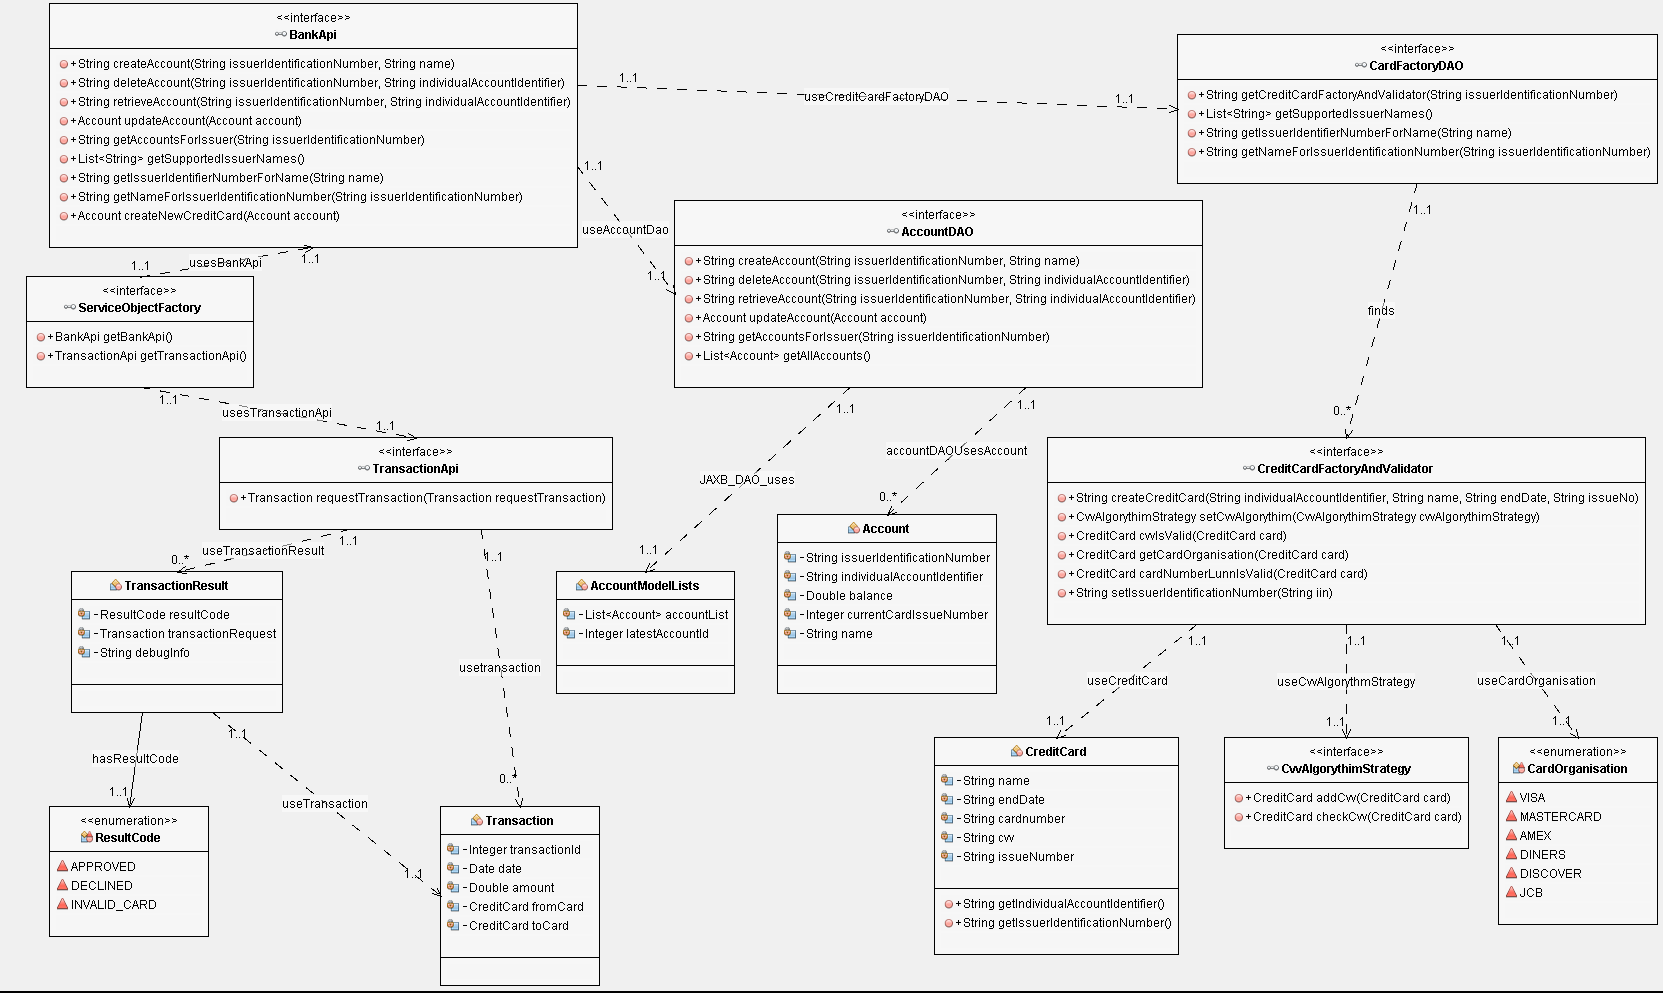
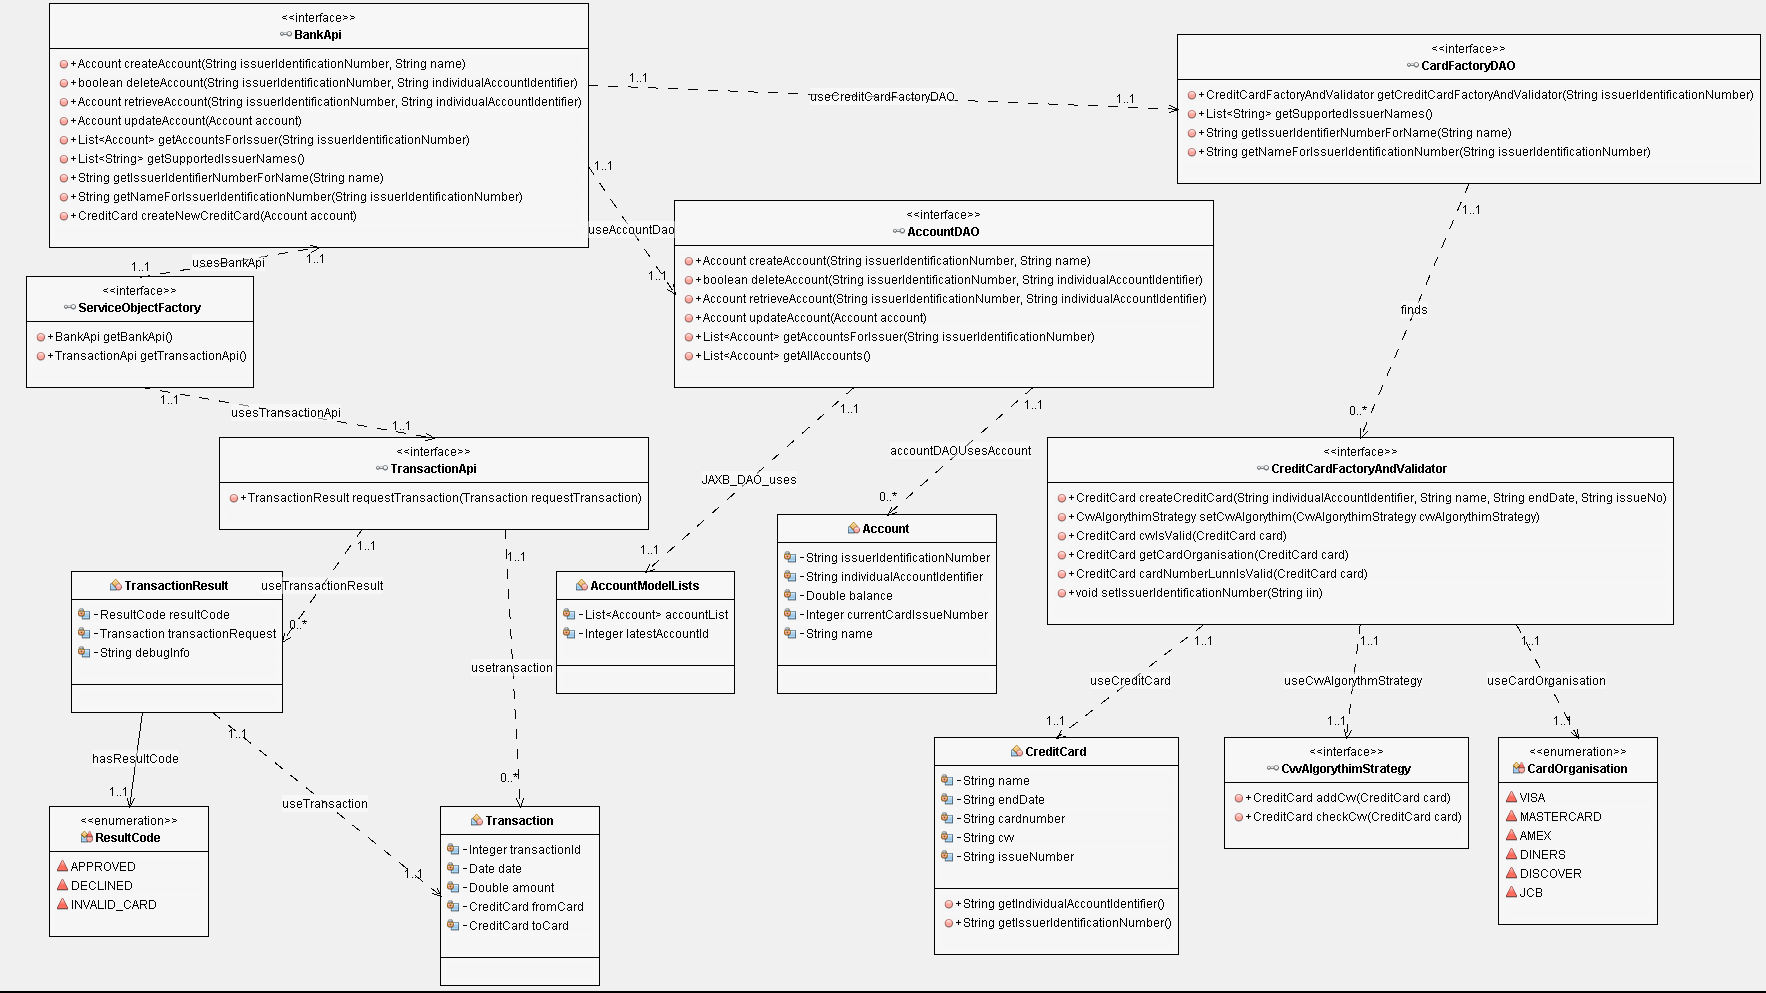
Week 7

diff --git a/myPracticeCourseWork/week7/bankcard-parent/card-validator-dao/src/main/java/solent/ac/uk/ood/examples/cardvalidator/impl/CardFactoryDAOImpl.java b/myPracticeCourseWork/week7/bankcard-parent/card-validator-dao/src/main/java/solent/ac/uk/ood/examples/cardvalidator/impl/CardFactoryDAOImpl.java
@@ -23,34 +23,34 @@ public class CardFactoryDAOImpl implements CardFactoryDAO {
     
     public CardFactoryDAOImpl(){
         
-        //TODO you need to use the actual algorythims you created - one for each bank
+        // you need to use the actual algorythims you created - one for each bank
         String iin = SupportedCardIssuerIdentificationNumbers.VISA_NAT_WEST;
         CreditCardFactoryAndValidator ccfv = new CreditCardFactoryAndValidatorImpl();
-        ccfv.setCvvAlgorythim(new TrivialCvvAlgorythimStrategy());
+        ccfv.setCvvAlgorythim(new TrivialCvvAlgorythimStrategy().setAlgorythim(iin));
         ccfv.setIssuerIdentificationNumber(iin);
         cardFactoryMap.put(iin, ccfv);
         
         iin=SupportedCardIssuerIdentificationNumbers.VISA_BANK_OF_IRELAND_UK;
         ccfv = new CreditCardFactoryAndValidatorImpl();
-        ccfv.setCvvAlgorythim(new TrivialCvvAlgorythimStrategy());
+        ccfv.setCvvAlgorythim(new TrivialCvvAlgorythimStrategy().setAlgorythim(iin));
         ccfv.setIssuerIdentificationNumber(iin);
         cardFactoryMap.put(iin, ccfv);
         
         iin = SupportedCardIssuerIdentificationNumbers.MASTERCARD_TSB_BANK;
         ccfv = new CreditCardFactoryAndValidatorImpl();
-        ccfv.setCvvAlgorythim(new TrivialCvvAlgorythimStrategy());
+        ccfv.setCvvAlgorythim(new TrivialCvvAlgorythimStrategy().setAlgorythim(iin));
         ccfv.setIssuerIdentificationNumber(iin);
         cardFactoryMap.put(iin, ccfv);
         
         iin = SupportedCardIssuerIdentificationNumbers.MASTERCARD_LLOYDS_BANK_PLC;
         ccfv = new CreditCardFactoryAndValidatorImpl();
-        ccfv.setCvvAlgorythim(new TrivialCvvAlgorythimStrategy());
+        ccfv.setCvvAlgorythim(new TrivialCvvAlgorythimStrategy().setAlgorythim(iin));
         ccfv.setIssuerIdentificationNumber(iin);
         cardFactoryMap.put(iin, ccfv);
         
         iin = SupportedCardIssuerIdentificationNumbers.AMERICAN_EXPRESS_LLOYDS_BANK_PLC;
         ccfv = new CreditCardFactoryAndValidatorImpl();
-        ccfv.setCvvAlgorythim(new TrivialCvvAlgorythimStrategy());
+        ccfv.setCvvAlgorythim(new TrivialCvvAlgorythimStrategy().setAlgorythim(iin));
         ccfv.setIssuerIdentificationNumber(iin);
         cardFactoryMap.put(iin, ccfv);
         
@@ -72,11 +72,6 @@ public class CardFactoryDAOImpl implements CardFactoryDAO {
     @Override
     public String getIssuerIdentifierNumberForName(String name) {
         return SupportedCardIssuerIdentificationNumbers.ISSUER_IDENTIFICATION_MAP.get(name);
-    }
-
-    @Override
-    public String getNameForIssuerIdentificationNumber(String issuerIdentificationNumber) {
-        return SupportedCardIssuerIdentificationNumbers.ISSUER_NAME_MAP.get(issuerIdentificationNumber);
     }
     
 }

diff --git a/myPracticeCourseWork/week7/bankcard-parent/card-validator-dao/src/test/java/solent/ac/uk/ood/examples/cardvalidator/cvv/impl/test/CreateAndVerifyNewCreditCardTest.java b/myPracticeCourseWork/week7/bankcard-parent/card-validator-dao/src/test/java/solent/ac/uk/ood/examples/cardvalidator/cvv/impl/test/CreateAndVerifyNewCreditCardTest.java
@@ -22,32 +22,33 @@ public class CreateAndVerifyNewCreditCardTest {
     public void createAndVerifyCardTest() {
 
         CardFactoryDAO cfdao = new CardFactoryDAOImpl();
+        
+        for(int i = 0; i < 5; i++){
+            String issuerName = cfdao.getSupportedIssuerNames().get(i); // get first issuerName
+            System.out.println("test using issuer:" + issuerName);
 
-        String issuerName = cfdao.getSupportedIssuerNames().get(0); // get first issuerName
-        System.out.println("test using issuer:" + issuerName);
+            String accountNumber = "123456789"; // 9 digits + iin + 1 = 16
 
-        String accountNumber = "123456789"; // 9 digits + iin + 1 = 16
+            String issuerIdentifierNumber = cfdao.getIssuerIdentifierNumberForName(issuerName);
 
-        String issuerIdentifierNumber = cfdao.getIssuerIdentifierNumberForName(issuerName);
+            CreditCardFactoryAndValidator ccFactoryandValidator = cfdao.getCreditCardFactoryAndValidator(issuerIdentifierNumber);
+            String name = "Fred Blogs";
+            String endDate = "0119";
+            String issueNumber = "01";
+            CreditCard newCreditcard = ccFactoryandValidator.createCreditCard(accountNumber, name, endDate, issueNumber);
 
-        CreditCardFactoryAndValidator ccFactoryandValidator = cfdao.getCreditCardFactoryAndValidator(issuerIdentifierNumber);
-        String name = "Fred Blogs";
-        String endDate = "0119";
-        String issueNumber = "01";
-        CreditCard newCreditcard = ccFactoryandValidator.createCreditCard(accountNumber, name, endDate, issueNumber);
+            System.out.println(" new creditcard created:" + newCreditcard);
 
-        System.out.println(" new creditcard created:" + newCreditcard);
+            // decode and verify creditcard
+            String receivedIin = newCreditcard.getIssuerIdentificationNumber();
 
-        // decode and verify creditcard
-        String receivedIin = newCreditcard.getIssuerIdentificationNumber();
+            CreditCardFactoryAndValidator checkValidator = cfdao.getCreditCardFactoryAndValidator(receivedIin);
 
-        CreditCardFactoryAndValidator checkValidator = cfdao.getCreditCardFactoryAndValidator(receivedIin);
+            boolean lunnIsValid = checkValidator.cardNumberLunnIsValid(newCreditcard);
+            boolean cvvIsValid = checkValidator.cvvIsValid(newCreditcard);
 
-        boolean lunnIsValid = checkValidator.cardNumberLunnIsValid(newCreditcard);
-        boolean cvvIsValid = checkValidator.cvvIsValid(newCreditcard);
-
-        assertTrue(lunnIsValid);
-        assertTrue(cvvIsValid);
-
+            assertTrue(lunnIsValid);
+            assertTrue(cvvIsValid);
+        }
     }
 }

diff --git a/myPracticeCourseWork/week7/bankcard-parent/card-validator-dao/src/main/java/solent/ac/uk/ood/examples/cardvalidator/impl/CreditCardFactoryAndValidatorImpl.java b/myPracticeCourseWork/week7/bankcard-parent/card-validator-dao/src/main/java/solent/ac/uk/ood/examples/cardvalidator/impl/CreditCardFactoryAndValidatorImpl.java
@@ -6,8 +6,6 @@
 package solent.ac.uk.ood.examples.cardvalidator.impl;
 
 import solent.ac.uk.ood.examples.cardcheck.CalculateLunnDigit;
-import solent.ac.uk.ood.examples.cardcheck.CardCompany;
-import solent.ac.uk.ood.examples.cardcheck.CardValidationResult;
 import solent.ac.uk.ood.examples.cardcheck.RegexCardValidator;
 import solent.ac.uk.ood.examples.cardvalidator.model.CardOrganisation;
 import solent.ac.uk.ood.examples.cardvalidator.model.CreditCard;
@@ -67,40 +65,25 @@ public class CreditCardFactoryAndValidatorImpl implements CreditCardFactoryAndVa
 
     @Override
     public CardOrganisation getCardOrganisation(CreditCard card) {
-        //TODO THIS IS ANSWER TO EXERCISE
-        CardValidationResult result = RegexCardValidator.isValid(card.getCardnumber());
-        CardCompany type = result.getCardType();
-        switch (type) {
-            case AMEX:
-                // Statements
-                break; // optional
-            case DINERS:
-                return CardOrganisation.DINERS;
-
-            case DISCOVER:
-                return CardOrganisation.DISCOVER;
-
-            case JCB:
-                return CardOrganisation.JCB;
-
-            case MASTERCARD:
-                return CardOrganisation.MASTERCARD;
-
-            case VISA:
-                return CardOrganisation.VISA;
-
-            default:
-                throw new IllegalArgumentException("unknown card type:" + type);
+        CardOrganisation[] cc = CardOrganisation.values();
+        for(int count = 0; count <= cc.length; count ++){
+            if(cc[count].toString().equals(RegexCardValidator.isValid(card.getCardnumber()).getCardType().getIssuerName())){
+                return cc[count];
+            }
         }
-
-        throw new IllegalArgumentException("unknown card type:" + type);
+        return null;
     }
 
     @Override
     public boolean cardNumberLunnIsValid(CreditCard card) {
-        //TODO THIS IS ANSWER TO EXERCISE
-        CardValidationResult result = RegexCardValidator.isValid(card.getCardnumber());
-        return result.isValid();
+        if(RegexCardValidator.isValid(card.getCardnumber()).getError() == null){
+            return true;
+        }else if(RegexCardValidator.isValid(card.getCardnumber()).getError() != null){
+            if(!RegexCardValidator.isValid(card.getCardnumber()).getError().equals("failed luhn check")){
+                return true;
+            }
+        }
+        return false;
     }
 
 }

diff --git a/myPracticeCourseWork/week7/bankcard-parent/card-validator-dao/src/main/java/solent/ac/uk/ood/examples/cardvalidator/cvv/impl/TrivialCvvAlgorythimStrategy.java b/myPracticeCourseWork/week7/bankcard-parent/card-validator-dao/src/main/java/solent/ac/uk/ood/examples/cardvalidator/cvv/impl/TrivialCvvAlgorythimStrategy.java
@@ -14,9 +14,33 @@ import solent.ac.uk.ood.examples.cardvalidator.model.CvvAlgorythimStrategy;
  */
 public class TrivialCvvAlgorythimStrategy implements CvvAlgorythimStrategy {
 
-    private final String CVV = "000";
+    private String CVV = "000";
+    private String BankCompany = "0";
+    
     @Override
     public CreditCard addCvv(CreditCard card) {
+                
+        //CVV algorythm goes here
+        switch(BankCompany){
+            case "513388": // TSB Bank (Gets first three digits of the cards number and multiplies it with the first three digits of the iin)
+                CVV = Integer.toString(Integer.parseInt(card.getCardnumber().substring(0,3)) * Integer.parseInt(BankCompany.substring(0,3)));
+                break;
+            case "428586": // Visa Natwest (Turns last letter of card holders name into ascii and multiplies it by the cards first two digits)
+                CVV = Integer.toString(((int)card.getName().charAt(card.getName().length()-1)) * Integer.parseInt(card.getEndDate().substring(0,2)));
+                break;
+            case "424519": // Bank of ireland (Takes first character of card holders name and multiplies it with iin)
+                CVV = Integer.toString(((int)card.getName().charAt(0)) * Integer.parseInt(BankCompany));
+                break;
+            case "512569": // Bank of ireland (Takes first character of card holders name in ascii and multiplies it with its expiration date)
+                CVV = Integer.toString(((int)card.getName().charAt(0)) * Integer.parseInt(card.getEndDate()));
+                break;
+            case "377064": // American express (Multiplies ascii values of both the first letter of the card holders name and the last)
+                CVV = Integer.toString(((int)card.getName().charAt(0)) * (int)card.getName().charAt(card.getName().length() - 1));
+                break;
+        }
+        CVV = CVV.substring(0,3);
+        
+                
         card.setCvv(CVV);
         return card;
     }
@@ -26,4 +50,8 @@ public class TrivialCvvAlgorythimStrategy implements CvvAlgorythimStrategy {
         return card.getCvv().equals(CVV);
     }
     
+    public CvvAlgorythimStrategy setAlgorythim(String iin){
+        this.BankCompany = iin;
+        return this;
+    }
 }

diff --git a/myPracticeCourseWork/week7/bankcard-parent/card-validator-dao/src/main/java/solent/ac/uk/ood/examples/cardvalidator/impl/SupportedCardIssuerIdentificationNumbers.java b/myPracticeCourseWork/week7/bankcard-parent/card-validator-dao/src/main/java/solent/ac/uk/ood/examples/cardvalidator/impl/SupportedCardIssuerIdentificationNumbers.java
@@ -38,16 +38,4 @@ public interface SupportedCardIssuerIdentificationNumbers {
                     put("AMERICAN_EXPRESS_LLOYDS_BANK_PLC", AMERICAN_EXPRESS_LLOYDS_BANK_PLC);
                 }
             });
-    
-        // this creates a constant map. You cannot change a Collections.unmodifiableMap
-    public static final Map<String, String> ISSUER_NAME_MAP
-            = Collections.unmodifiableMap(new HashMap() {
-                {
-                    put(VISA_BANK_OF_IRELAND_UK, "VISA_BANK_OF_IRELAND_UK");
-                    put(VISA_NAT_WEST, "VISA_NAT_WEST");
-                    put(MASTERCARD_TSB_BANK, "MASTERCARD_TSB_BANK");
-                    put(MASTERCARD_LLOYDS_BANK_PLC, "MASTERCARD_LLOYDS_BANK_PLC");
-                    put(AMERICAN_EXPRESS_LLOYDS_BANK_PLC, "AMERICAN_EXPRESS_LLOYDS_BANK_PLC");
-                }
-            });
 }

diff --git a/myPracticeCourseWork/week7/bankcard-parent/card-validator-dao/src/test/java/solent/ac/uk/ood/examples/cardvalidator/cvv/impl/test/CreditCardFactoryAndValidatorImplTest.java b/myPracticeCourseWork/week7/bankcard-parent/card-validator-dao/src/test/java/solent/ac/uk/ood/examples/cardvalidator/cvv/impl/test/CreditCardFactoryAndValidatorImplTest.java
@@ -8,8 +8,10 @@ package solent.ac.uk.ood.examples.cardvalidator.cvv.impl.test;
 import org.junit.Test;
 import static org.junit.Assert.*;
 import solent.ac.uk.ood.examples.cardvalidator.cvv.impl.TrivialCvvAlgorythimStrategy;
+import solent.ac.uk.ood.examples.cardvalidator.impl.CardFactoryDAOImpl;
 import solent.ac.uk.ood.examples.cardvalidator.impl.CreditCardFactoryAndValidatorImpl;
 import solent.ac.uk.ood.examples.cardvalidator.impl.SupportedCardIssuerIdentificationNumbers;
+import solent.ac.uk.ood.examples.cardvalidator.model.CardFactoryDAO;
 import solent.ac.uk.ood.examples.cardvalidator.model.CardOrganisation;
 import solent.ac.uk.ood.examples.cardvalidator.model.CreditCard;
 import solent.ac.uk.ood.examples.cardvalidator.model.CreditCardFactoryAndValidator;
